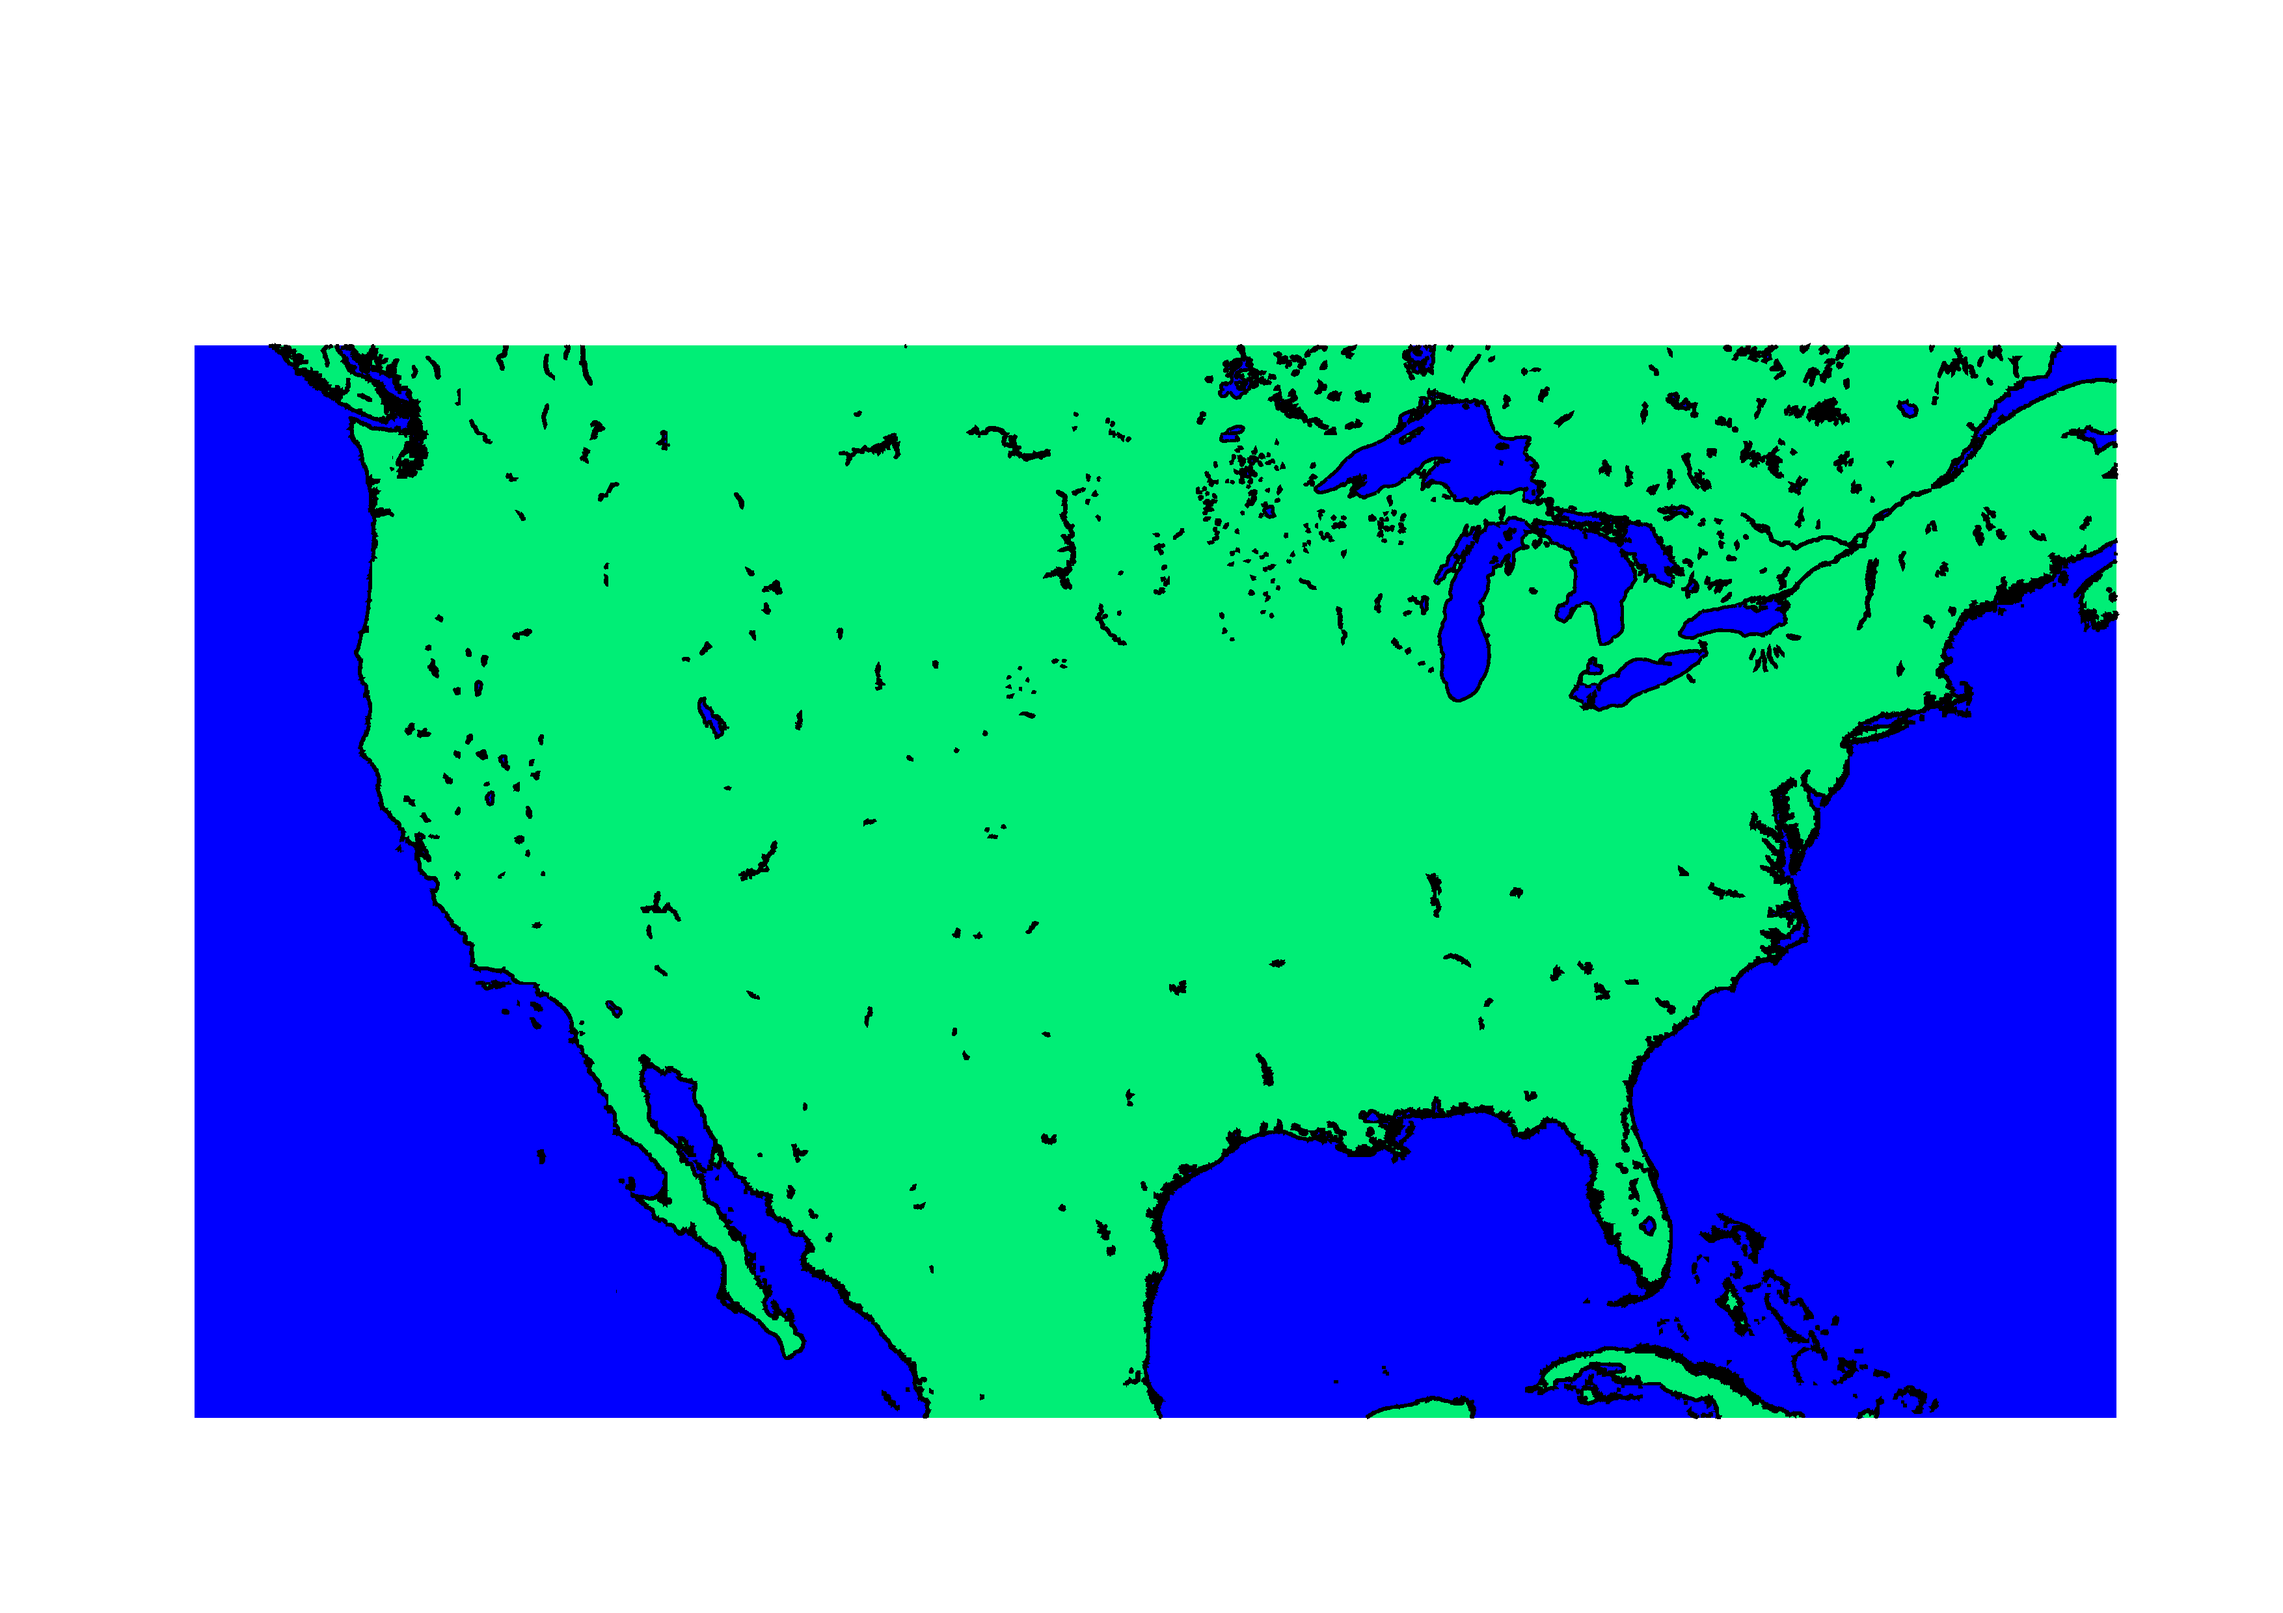
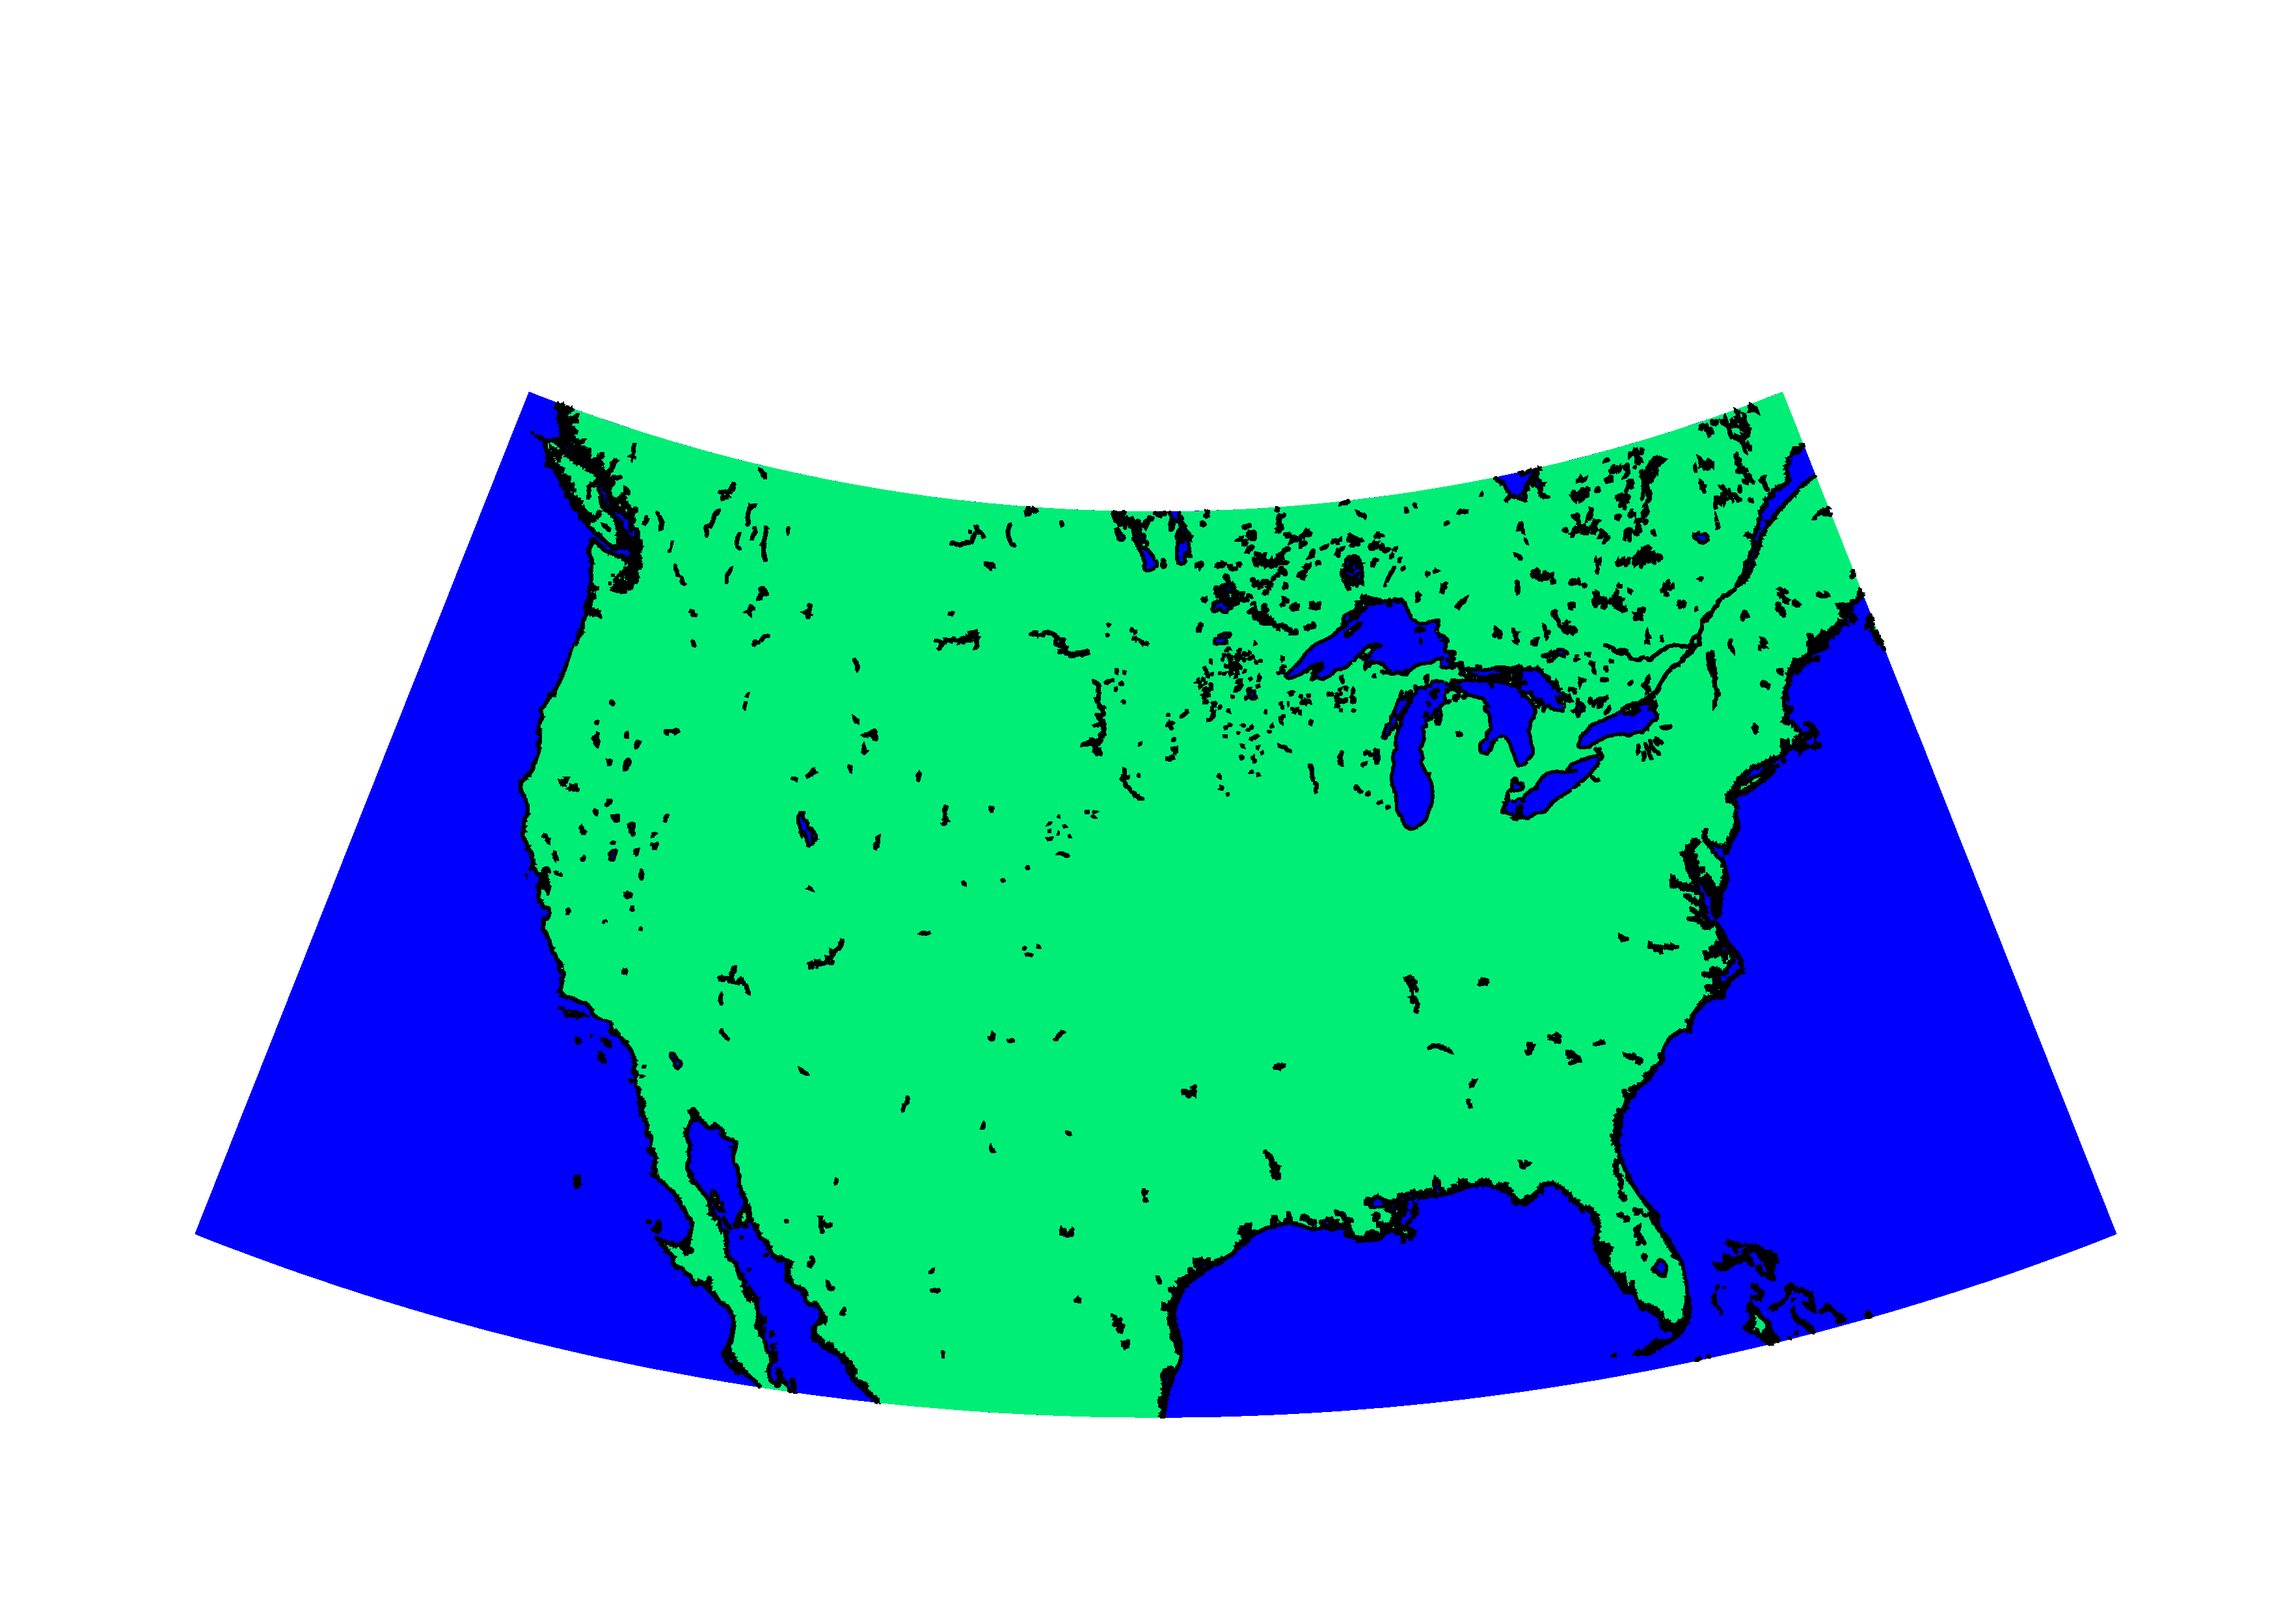
update 5-4

diff --git a/docs/projection.md b/docs/projection.md
@@ -127,15 +127,32 @@ gmt pscoast -R119.0/122.5/21.5/26.0 -JM18 -S0/0/255 -Gspringgreen2 -W1 -Df -P > 
 
 ## 5.4 蘭伯特正形圓錐投影
 
-美國幅員遼闊，經度橫跨約55度，且主要在中緯度，不適合使用麥卡托投影，因此這邊介紹蘭伯特投影法。
-與前一節一樣，先初步畫出美國的國土，給定範圍在-130/-65/21/50，指令如下:
+美國幅員遼闊，經度橫跨約55度，且主要在中緯度，不適合使用麥卡托投影(`-JM`)，因此這邊介紹蘭伯特投影法(`-JL`)。
+與前一節一樣，先初步畫出美國的國土，給定範圍在-130/-66/24/52，但`-JL`的用法較不一樣，
+它需要的格式是`-JL`中心點經度/中心點緯度/固定緯度線1/固定緯度線2/寬度，指令如下:
 ```shell
-gmt pscoast -R-130/-65/21/50 -JM25 -S0/0/255 -Gspringgreen2 -W1 -Df > 5_4_unitedstate.ps
+gmt pscoast -R-130/-66/24/52 -JL-98/35/33/45/25 -S0/0/255 -Gspringgreen2 -W1 -Df > 5_4_unitedstate.ps
 ```
 其結果為
 <p align="center">
   <img src="fig/5_4_unitedstate_1.png" width="702" height="496"/>
 </p>
+
+中心點的經度，表示該經度線為垂直線，而中心點緯度則不影響，兩條固定緯度線則請想像用圓錐去罩住一顆球，
+當你罩的緯度範圍越大，越接近平面。接下來看看有什麼地方需要改善，
+
+* `-A`最小區域(km^2)。
+* `-B`設定地圖框架及軸的參數。
+  *`-BWESN`用來設定東西南北的框架(frame)及註解(annotation)，大寫表示同時畫框架及寫註解，
+  小寫則為只畫框架，沒寫則無框架及註解。
+  *`-B`軸a[數字][f數字][g數字]，軸用x、y來代表水平及垂直，a給定主要註解及刻度(ticks)，f給定次要刻度，
+  而g則是格線(gridline)，後面的數字代表間隔。
+* `-C`湖的顏色。
+* `-I`河的種類/畫筆設定。種類數字或英文對應河的種類(主流、支流)，請自行參考官網說明。
+* `-L`比例尺對應的中心點方式/中心點經度/中心點緯度+c參考緯度+w比例尺長度(默認單位km)+f黑白相間的比例尺+l標籤。
+* `-N`行政邊界(種類)/畫筆設定。
+  *種類對應，1表示國家邊界；2表示州邊界(美國);3表示領海邊界;a表示全部邊界。
+
 
 ---
 
